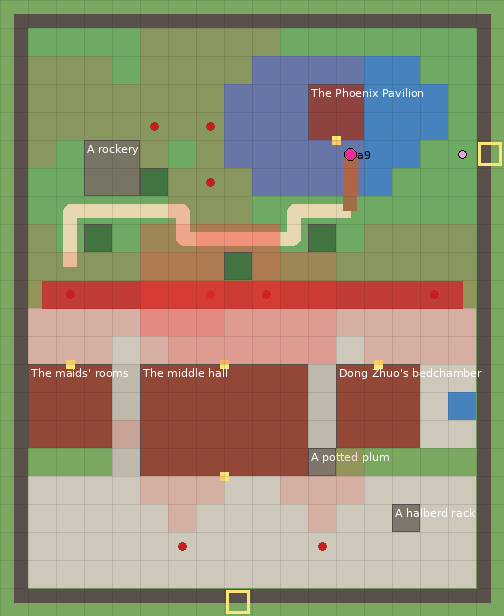
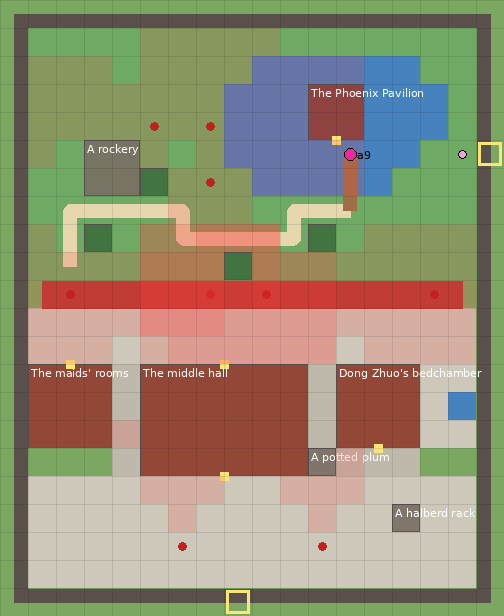
Book 2 plans: the Chancellor's bedchamber opens south (its door where the art draws it); A9's covered route now starts there
Claude-Session: https://claude.ai/code/session_01WnyNSnZWTAqSWa4jGX51Ds

Changed region(s): [[0.6548, 0.7094, 0.8333, 0.7711], [0.744, 0.586, 0.7738, 0.6169]]

diff --git a/tools/tk_plans_w2.py b/tools/tk_plans_w2.py
@@ -288,7 +288,8 @@ PLANS2 = {
                 "grid": [18, 22], "cell": 2, "margin": 0,
                 "ground": [
                     {"id": "front-court", "kind": "court", "rect": [1, 17, 16, 4]},
-                    {"id": "inner-court", "kind": "court", "rect": [1, 11, 16, 2]},   # keeps the gallery clear of the halls' roofs
+                    {"id": "inner-court", "kind": "court", "rect": [1, 11, 16, 2]},
+                    {"id": "bedroom-step", "kind": "passage", "rect": [12, 16, 3, 1]},   # in front of the bedchamber, to the east passage   # keeps the gallery clear of the halls' roofs
                     {"id": "passage-w", "kind": "passage", "rect": [4, 13, 1, 4]},
                     {"id": "passage-e", "kind": "passage", "rect": [11, 13, 1, 4]},
                     {"id": "pond-court", "kind": "court", "rect": [15, 13, 2, 3]},
@@ -308,7 +309,7 @@ PLANS2 = {
                     {"id": "xf-hall", "kind": "building.hall_grand", "rect": [5, 13, 6, 4], "doors": ["S", "N"],
                      "label": "The middle hall", "map": "xf-hall"},
                     {"id": "wing-w", "kind": "building.wing", "rect": [1, 13, 3, 3], "door": "N", "label": "The maids' rooms"},
-                    {"id": "xf-bedroom", "kind": "building.wing", "rect": [12, 13, 3, 3], "door": "N", "label": "Dong Zhuo's bedchamber",
+                    {"id": "xf-bedroom", "kind": "building.wing", "rect": [12, 13, 3, 3], "door": "S", "label": "Dong Zhuo's bedchamber",
                      "map": "xf-bedroom", "window": "E"},
                     {"id": "phoenix", "kind": "building.pavilion", "rect": [11, 3, 2, 2], "on": "water", "door": "S",
                      "label": "The Phoenix Pavilion"},
@@ -338,7 +339,7 @@ PLANS2 = {
                     {"id": "guard-2", "kind": "folk.soldier", "at": [11, 19], "face": "N", "cone": 6, "in_beats": ["2-a7", "2-a7c", "2-a8", "2-a9", "2-a10"]},
                 ],
                 "checks": [   # play checks the generated details must pass (places-notes.md, request 6)
-                    {"check": "covered_route", "from": [13, 10], "to": [12, 5], "beats": ["2-a9"]},
+                    {"check": "covered_route", "from": [13, 16], "to": [12, 5], "beats": ["2-a9"]},
                     {"check": "safe_spot", "in": ["passage-e", "xf-garden"]},
                 ],
             },
@@ -415,7 +416,7 @@ PLANS2 = {
                                    {"id": "curtain", "at": [1, 4], "node": "2-a7c", "label": "Behind the curtain",
                                     "sight": {"seen_by": "lubu", "unseen_by": "dongzhuo"}}],
                             exits=[{"to": "gallery", "at": [4, 0], "side": "N"}]),
-            "xf-bedroom": room([10, 7], [5, 0],
+            "xf-bedroom": room([10, 7], [5, 6],
                                things=[{"id": "bed", "kind": "furn.bed", "rect": [2, 3, 3, 2]},
                                        {"id": "window", "kind": "furn.window", "rect": [8, 2, 1, 1], "label": "The window over the pond"},
                                        {"id": "mirror", "kind": "furn.drawers", "rect": [8, 4, 1, 1], "label": "A dressing table"}],
